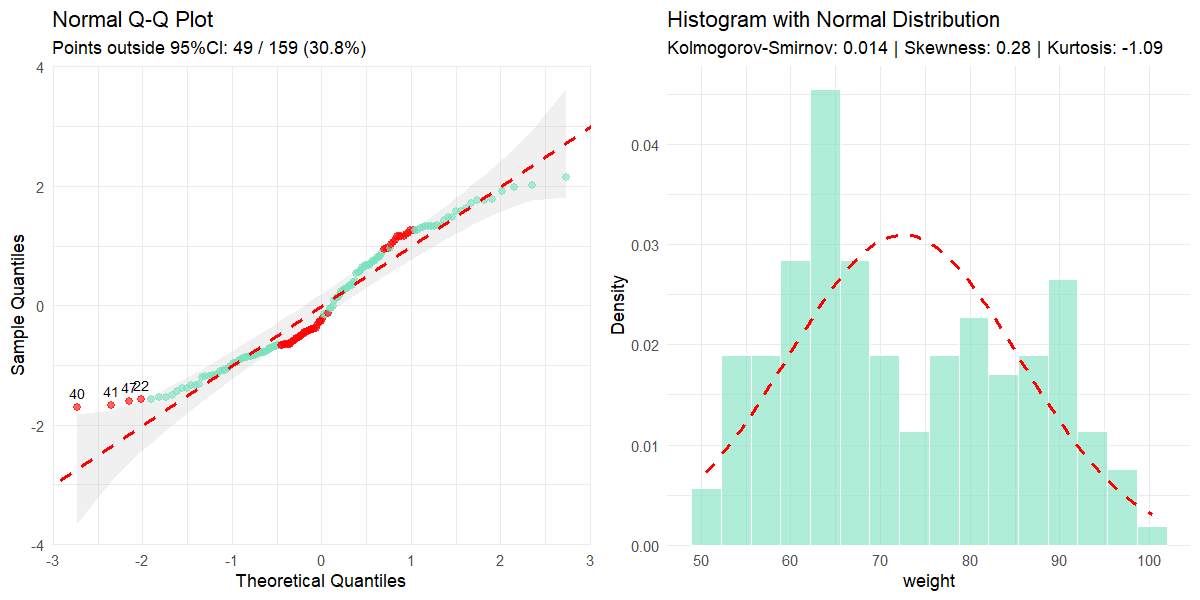
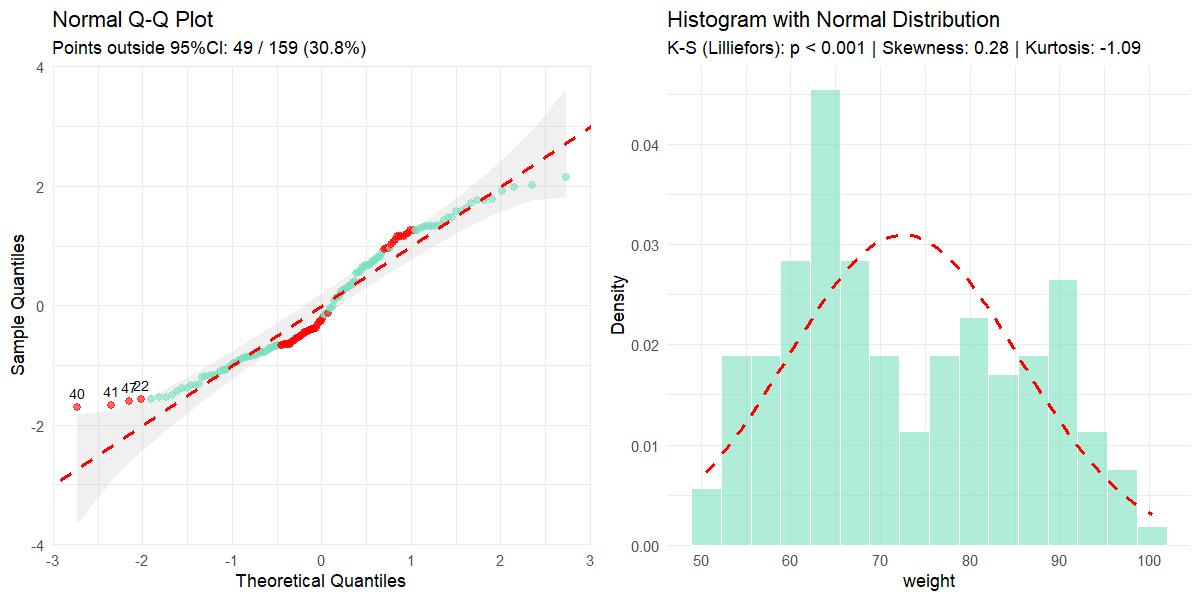
Update README for version 1.1.0

Changed region(s): [[0.555, 0.06, 0.9867, 0.09]]

diff --git a/README.md b/README.md
@@ -227,10 +227,11 @@ summary_table(clinical_df,
 ##### Description
 
 Tests normality using sample size-appropriate methods: Shapiro-Wilk test
-(n less than or equal to 50) or Kolmogorov-Smirnov test (n greater than
-50) with Q-Q plots and histograms. Evaluates skewness and kurtosis using
-z-score criteria based on sample size. Automatically detects outliers
-and provides comprehensive visual and statistical assessment.
+(n less than or equal to 50) or Kolmogorov-Smirnov test with Lilliefors’
+correction (n greater than 50) with Q-Q plots and histograms. Evaluates
+skewness and kurtosis using z-score criteria based on sample size.
+Automatically detects outliers and provides comprehensive visual and
+statistical assessment.
 
 ##### Parameters
 
@@ -256,7 +257,7 @@ normality(data = clinical_df_treat, "biomarker")
 #> mean (SD) = 49.44 (9.2) 
 #> median (IQR) = 50.38 (13.1) 
 #> 
-#> Kolmogorov-Smirnov: D = 0.054, p = 0.740 
+#> Kolmogorov-Smirnov (Lilliefors): D = 0.054, p = 0.305 
 #> Shapiro-Wilk: W = 0.992, p = 0.546 
 #> Skewness: 0.06 (z = 0.30) 
 #> Kurtosis: -0.03 (z = -0.08) 
@@ -278,8 +279,8 @@ normality(data = clinical_df_treat, "weight", all = TRUE)
 #> mean (SD) = 72.56 (12.9) 
 #> median (IQR) = 69.20 (21.1) 
 #> 
-#> Kolmogorov-Smirnov: D = 0.125, p = 0.014 
-#> Shapiro-Wilk: W = 0.951, p = < 0.001 
+#> Kolmogorov-Smirnov (Lilliefors): D = 0.125, p < 0.001 
+#> Shapiro-Wilk: W = 0.951, p < 0.001 
 #> Skewness: 0.28 (z = 1.45) 
 #> Kurtosis: -1.09 (z = -2.85) 
 #> 
